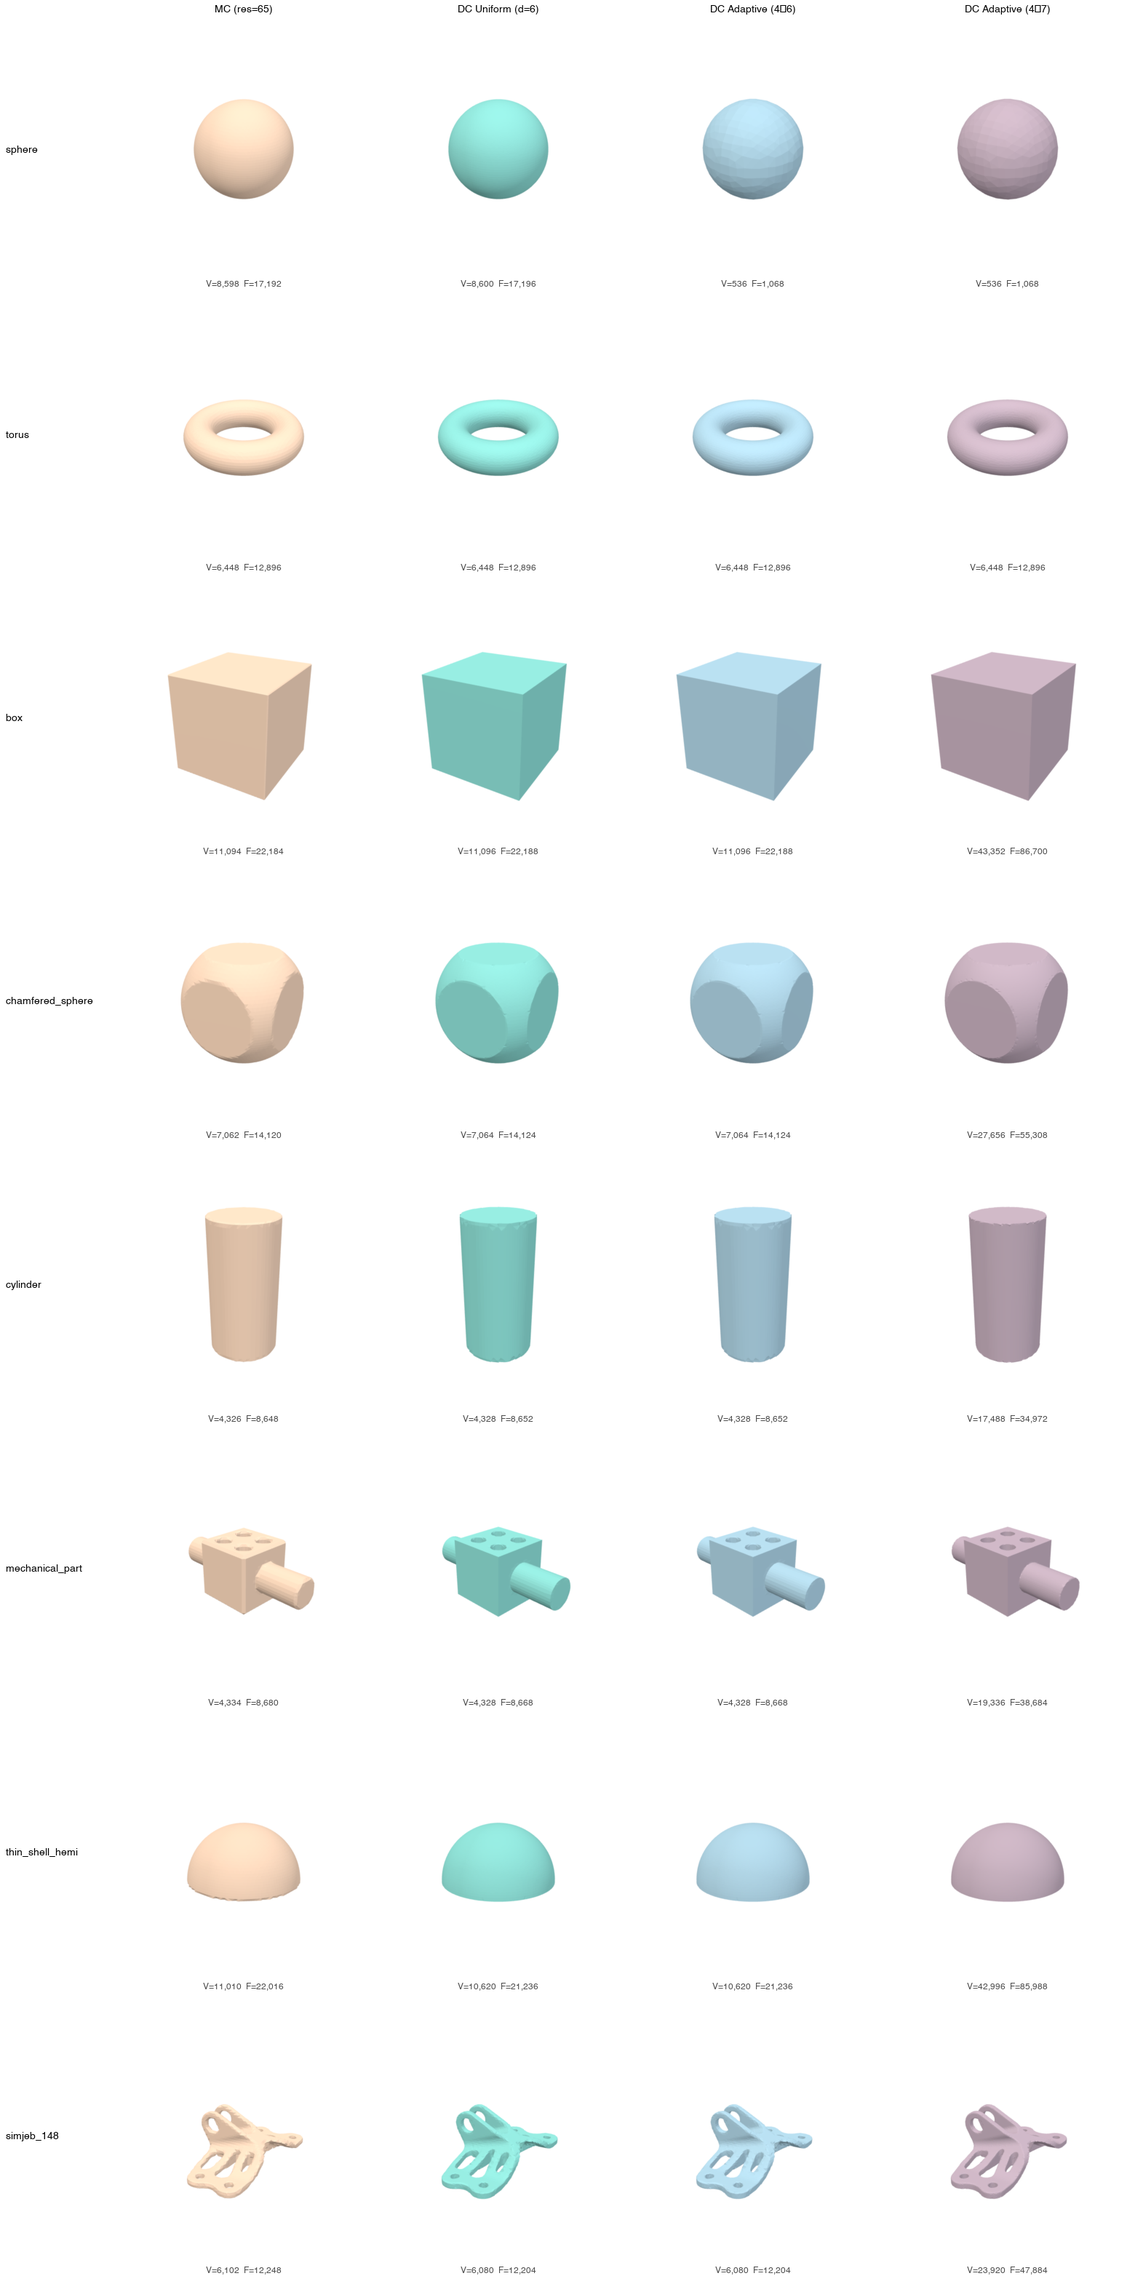
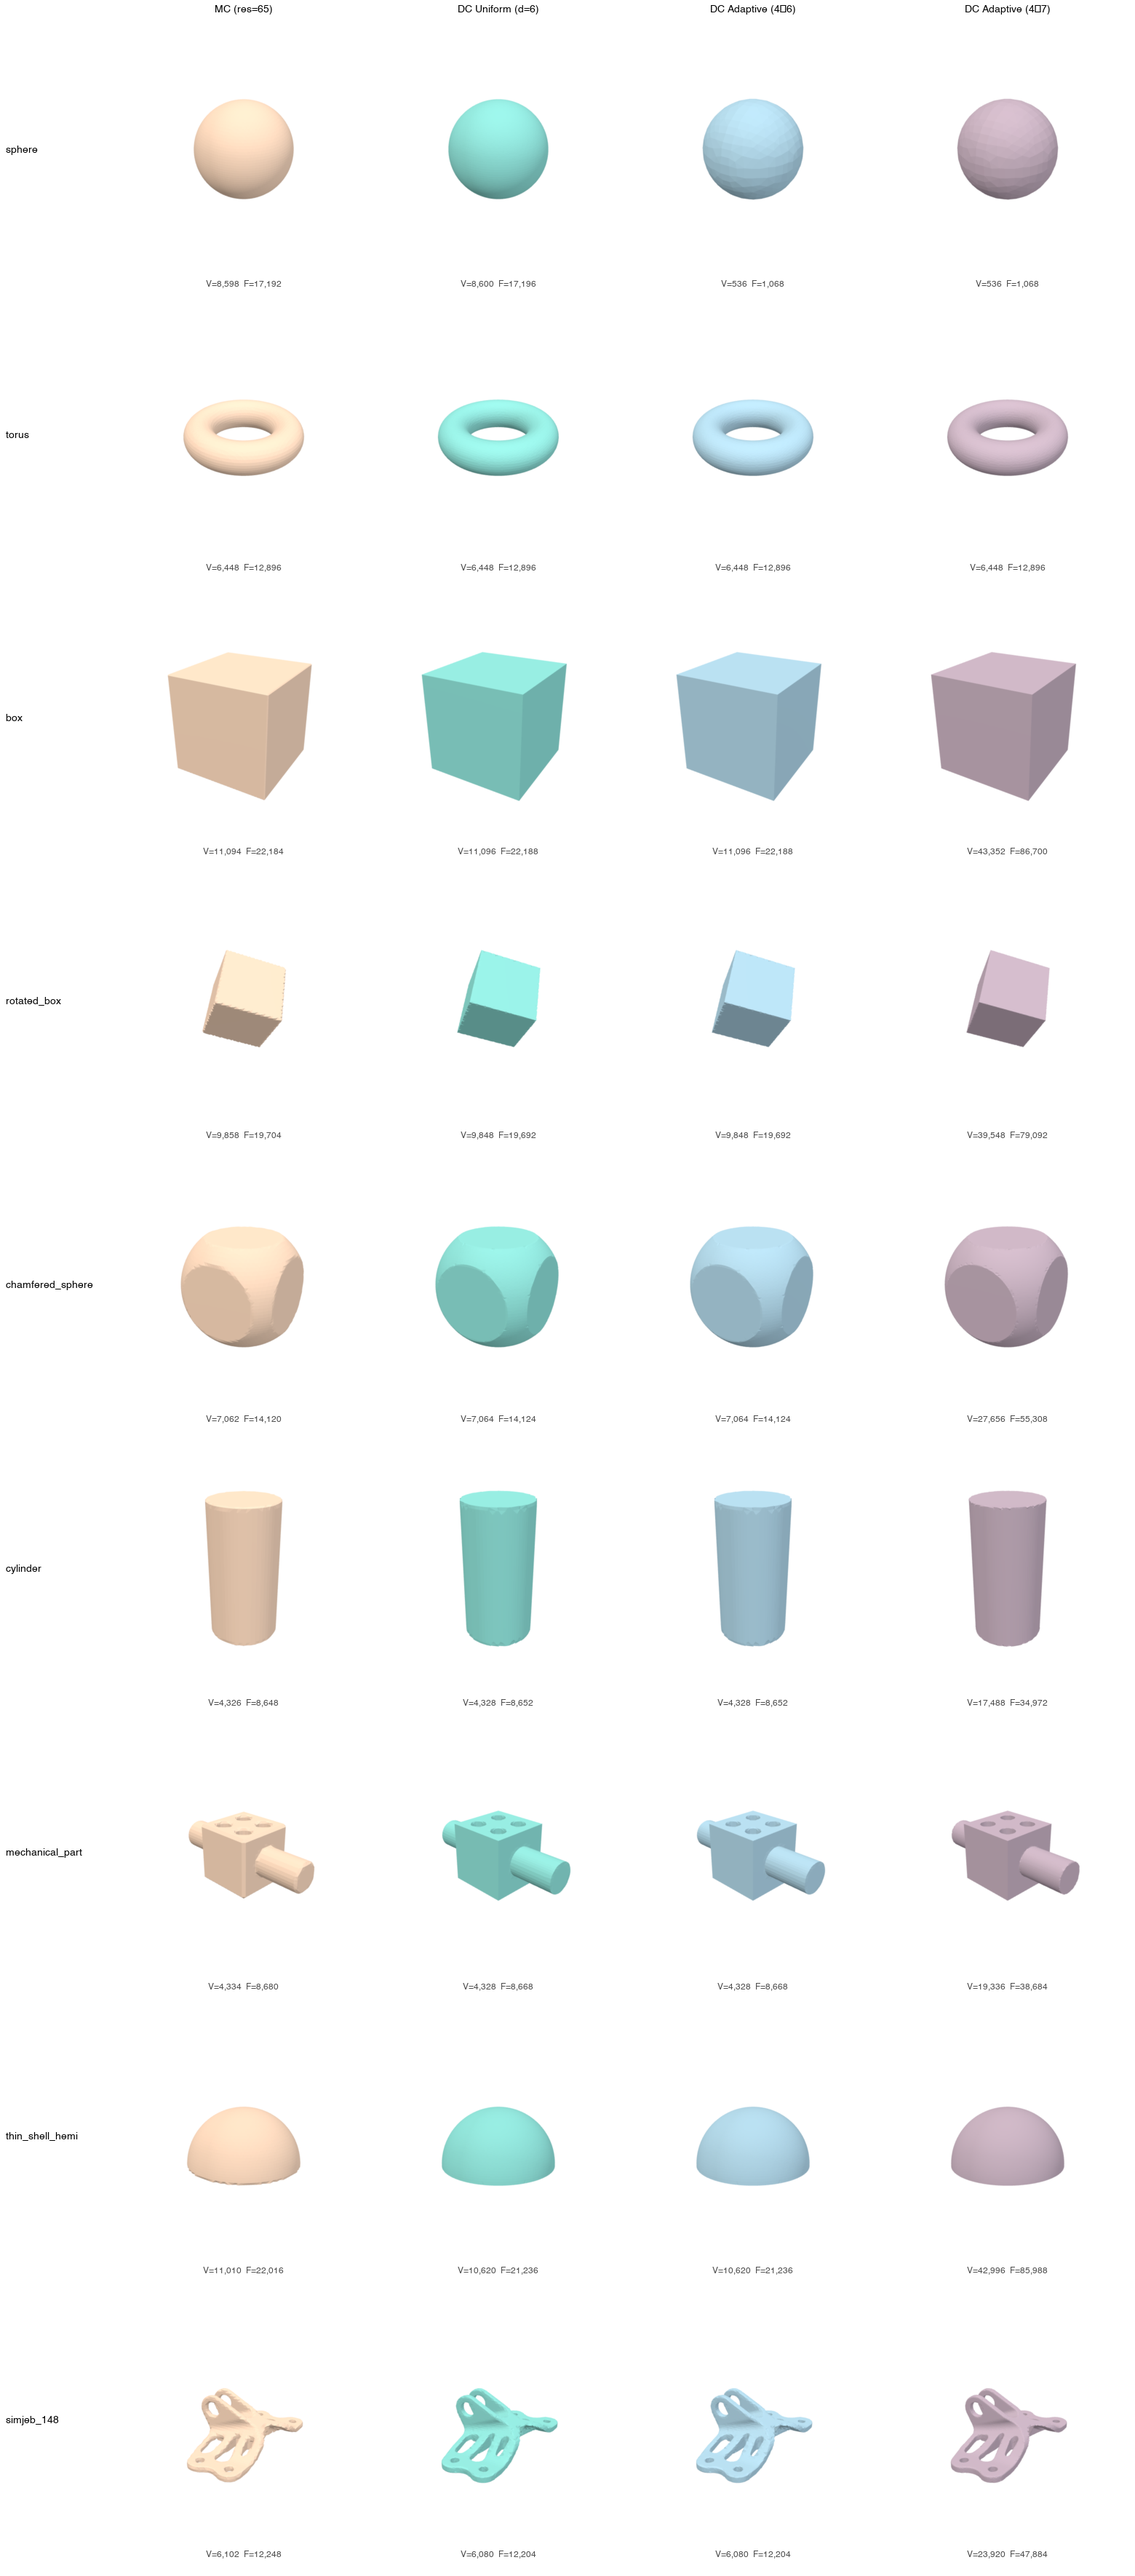
Add rotated box benchmark to test non-axis-aligned sharp edges
DC handles axis-aligned sharp edges well, but diagonal edges need
verification. Added box rotated 45° around (1,1,1) axis as a new
benchmark shape to expose this limitation.

diff --git a/benchmarks/run_benchmark.py b/benchmarks/run_benchmark.py
@@ -93,6 +93,26 @@ def sdf_box(pos, half=None):
     return np.linalg.norm(qm, axis=1) + np.minimum(np.max(q, axis=1), 0.0), None
 
 
+def _rotation_matrix(axis, angle):
+    """Rodrigues' rotation: axis must be unit vector, angle in radians."""
+    ax = np.asarray(axis, dtype=np.float64)
+    ax = ax / np.linalg.norm(ax)
+    c, s = np.cos(angle), np.sin(angle)
+    K = np.array([[0, -ax[2], ax[1]],
+                  [ax[2], 0, -ax[0]],
+                  [-ax[1], ax[0], 0]])
+    return np.eye(3) * c + (1 - c) * np.outer(ax, ax) + s * K
+
+
+def sdf_rotated_box(pos, half=None, axis=None, angle=np.pi / 4):
+    """Box rotated around an arbitrary axis — all edges become non-axis-aligned."""
+    if axis is None:
+        axis = np.array([1.0, 1.0, 1.0])
+    R_inv = _rotation_matrix(axis, -angle)
+    local_pos = pos @ R_inv.T
+    return sdf_box(local_pos, half)
+
+
 def sdf_chamfered_sphere(pos, R=1.0, d=0.8):
     """Sphere with 6 axis-aligned plane cuts — curved faces + sharp circular edges."""
     ds, _ = sdf_sphere(pos, radius=R)
@@ -190,6 +210,12 @@ def build_shapes():
             "bbox": 1.5,
             "category": "sharp",
             "desc": "Unit box",
+        },
+        "rotated_box": {
+            "func": sdf_rotated_box,
+            "bbox": 2.0,
+            "category": "sharp",
+            "desc": "Box rotated 45° around (1,1,1) axis",
         },
         "chamfered_sphere": {
             "func": sdf_chamfered_sphere,

diff --git a/output/benchmark_report.md b/output/benchmark_report.md
@@ -6,49 +6,53 @@
 | Shape | Method | V | F | Time (s) | Manifold | Watertight | Euler | Mean SDF Err | Min∠ Mean | Min∠ P5 |
 |-------|--------|--:|--:|--------:|:--------:|:----------:|-----:|-----------:|--------:|------:|
 | sphere | MC (res=65) | 8,598 | 17,192 | 0.006 | ✓ | ✓ | 2 | 9.63e-05 | 31.6° | 5.7° |
-|  | DC Uniform (d=6) | 8,600 | 17,196 | 0.081 | ✓ | ✓ | 2 | 4.57e-17 | 45.2° | 33.3° |
+|  | DC Uniform (d=6) | 8,600 | 17,196 | 0.077 | ✓ | ✓ | 2 | 4.57e-17 | 45.2° | 33.3° |
 |  | DC Adaptive (4→6) | 536 | 1,068 | 0.002 | ✓ | ✓ | 2 | 8.85e-05 | 43.7° | 30.5° |
 |  | DC Adaptive (4→7) | 536 | 1,068 | 0.002 | ✓ | ✓ | 2 | 8.85e-05 | 43.7° | 30.5° |
 | torus | MC (res=65) | 6,448 | 12,896 | 0.004 | ✓ | ✓ | 0 | 2.34e-04 | 32.0° | 3.7° |
-|  | DC Uniform (d=6) | 6,448 | 12,896 | 0.141 | ✓ | ✓ | 0 | 1.55e-05 | 41.0° | 26.2° |
-|  | DC Adaptive (4→6) | 6,448 | 12,896 | 0.038 | ✓ | ✓ | 0 | 1.55e-05 | 41.0° | 26.2° |
-|  | DC Adaptive (4→7) | 6,448 | 12,896 | 0.035 | ✓ | ✓ | 0 | 1.55e-05 | 41.0° | 26.2° |
+|  | DC Uniform (d=6) | 6,448 | 12,896 | 0.136 | ✓ | ✓ | 0 | 1.55e-05 | 41.0° | 26.2° |
+|  | DC Adaptive (4→6) | 6,448 | 12,896 | 0.035 | ✓ | ✓ | 0 | 1.55e-05 | 41.0° | 26.2° |
+|  | DC Adaptive (4→7) | 6,448 | 12,896 | 0.034 | ✓ | ✓ | 0 | 1.55e-05 | 41.0° | 26.2° |
 
 ## Sharp Features
 
 | Shape | Method | V | F | Time (s) | Manifold | Watertight | Euler | Mean SDF Err | Min∠ Mean | Min∠ P5 |
 |-------|--------|--:|--:|--------:|:--------:|:----------:|-----:|-----------:|--------:|------:|
-| box | MC (res=65) | 11,094 | 22,184 | 0.010 | ✓ | ✓ | 2 | 0.00e+00 | 44.1° | 45.0° |
-|  | DC Uniform (d=6) | 11,096 | 22,188 | 0.175 | ✓ | ✓ | 2 | 7.51e-10 | 44.5° | 39.8° |
-|  | DC Adaptive (4→6) | 11,096 | 22,188 | 0.114 | ✓ | ✓ | 2 | 7.51e-10 | 44.5° | 39.8° |
-|  | DC Adaptive (4→7) | 43,352 | 86,700 | 0.782 | ✓ | ✓ | 2 | 1.92e-10 | 44.8° | 45.0° |
-| chamfered_sphere | MC (res=65) | 7,062 | 14,120 | 0.011 | ✓ | ✓ | 2 | 2.58e-04 | 35.5° | 6.1° |
-|  | DC Uniform (d=6) | 7,064 | 14,124 | 0.197 | ✓ | ✓ | 2 | 3.42e-05 | 43.1° | 22.1° |
-|  | DC Adaptive (4→6) | 7,064 | 14,124 | 0.059 | ✓ | ✓ | 2 | 3.42e-05 | 43.1° | 22.1° |
+| box | MC (res=65) | 11,094 | 22,184 | 0.009 | ✓ | ✓ | 2 | 0.00e+00 | 44.1° | 45.0° |
+|  | DC Uniform (d=6) | 11,096 | 22,188 | 0.173 | ✓ | ✓ | 2 | 7.51e-10 | 44.5° | 39.8° |
+|  | DC Adaptive (4→6) | 11,096 | 22,188 | 0.109 | ✓ | ✓ | 2 | 7.51e-10 | 44.5° | 39.8° |
+|  | DC Adaptive (4→7) | 43,352 | 86,700 | 0.756 | ✓ | ✓ | 2 | 1.92e-10 | 44.8° | 45.0° |
+| rotated_box | MC (res=65) | 9,858 | 19,704 | 0.012 | ✓ | ✓ | 6 | 1.17e-04 | 30.8° | 3.5° |
+|  | DC Uniform (d=6) | 9,848 | 19,692 | 0.185 | ✓ | ✓ | 2 | 2.92e-05 | 36.5° | 21.2° |
+|  | DC Adaptive (4→6) | 9,848 | 19,692 | 0.083 | ✓ | ✓ | 2 | 2.92e-05 | 36.5° | 21.2° |
+|  | DC Adaptive (4→7) | 39,548 | 79,092 | 0.531 | ✓ | ✓ | 2 | 9.61e-06 | 36.8° | 21.8° |
+| chamfered_sphere | MC (res=65) | 7,062 | 14,120 | 0.013 | ✓ | ✓ | 2 | 2.58e-04 | 35.5° | 6.1° |
+|  | DC Uniform (d=6) | 7,064 | 14,124 | 0.196 | ✓ | ✓ | 2 | 3.42e-05 | 43.1° | 22.1° |
+|  | DC Adaptive (4→6) | 7,064 | 14,124 | 0.061 | ✓ | ✓ | 2 | 3.42e-05 | 43.1° | 22.1° |
 |  | DC Adaptive (4→7) | 27,656 | 55,308 | 0.333 | ✓ | ✓ | 2 | 4.58e-05 | 44.2° | 28.7° |
 | cylinder | MC (res=65) | 4,326 | 8,648 | 0.004 | ✓ | ✓ | 2 | 2.12e-04 | 34.9° | 4.1° |
-|  | DC Uniform (d=6) | 4,328 | 8,652 | 0.124 | ✓ | ✓ | 2 | 8.94e-05 | 38.1° | 27.2° |
-|  | DC Adaptive (4→6) | 4,328 | 8,652 | 0.030 | ✓ | ✓ | 2 | 8.94e-05 | 38.1° | 27.2° |
-|  | DC Adaptive (4→7) | 17,488 | 34,972 | 0.199 | ✓ | ✓ | 2 | 1.07e-05 | 38.3° | 28.5° |
-| mechanical_part | MC (res=65) | 4,334 | 8,680 | 0.020 | ✓ | ✓ | -6 | 3.25e-04 | 40.3° | 10.1° |
-|  | DC Uniform (d=6) | 4,328 | 8,668 | 0.234 | ✓ | ✓ | -6 | 5.65e-05 | 41.0° | 31.9° |
-|  | DC Adaptive (4→6) | 4,328 | 8,668 | 0.044 | ✓ | ✓ | -6 | 5.65e-05 | 41.0° | 31.9° |
-|  | DC Adaptive (4→7) | 19,336 | 38,684 | 0.243 | ✓ | ✓ | -6 | 9.51e-06 | 39.7° | 26.9° |
+|  | DC Uniform (d=6) | 4,328 | 8,652 | 0.127 | ✓ | ✓ | 2 | 8.94e-05 | 38.1° | 27.2° |
+|  | DC Adaptive (4→6) | 4,328 | 8,652 | 0.032 | ✓ | ✓ | 2 | 8.94e-05 | 38.1° | 27.2° |
+|  | DC Adaptive (4→7) | 17,488 | 34,972 | 0.182 | ✓ | ✓ | 2 | 1.07e-05 | 38.3° | 28.5° |
+| mechanical_part | MC (res=65) | 4,334 | 8,680 | 0.019 | ✓ | ✓ | -6 | 3.25e-04 | 40.3° | 10.1° |
+|  | DC Uniform (d=6) | 4,328 | 8,668 | 0.247 | ✓ | ✓ | -6 | 5.65e-05 | 41.0° | 31.9° |
+|  | DC Adaptive (4→6) | 4,328 | 8,668 | 0.045 | ✓ | ✓ | -6 | 5.65e-05 | 41.0° | 31.9° |
+|  | DC Adaptive (4→7) | 19,336 | 38,684 | 0.246 | ✓ | ✓ | -6 | 9.51e-06 | 39.7° | 26.9° |
 
 ## Thin Features
 
 | Shape | Method | V | F | Time (s) | Manifold | Watertight | Euler | Mean SDF Err | Min∠ Mean | Min∠ P5 |
 |-------|--------|--:|--:|--------:|:--------:|:----------:|-----:|-----------:|--------:|------:|
 | thin_shell_hemi | MC (res=65) | 11,010 | 22,016 | 0.005 | ✓ | ✓ | 2 | 6.86e-05 | 31.4° | 1.5° |
-|  | DC Uniform (d=6) | 10,620 | 21,236 | 0.139 | ✓ | ✓ | 2 | 8.29e-09 | 44.2° | 30.5° |
-|  | DC Adaptive (4→6) | 10,620 | 21,236 | 0.051 | ✓ | ✓ | 2 | 8.29e-09 | 44.2° | 30.5° |
-|  | DC Adaptive (4→7) | 42,996 | 85,988 | 0.352 | ✓ | ✓ | 2 | 5.71e-13 | 43.7° | 30.8° |
+|  | DC Uniform (d=6) | 10,620 | 21,236 | 0.143 | ✓ | ✓ | 2 | 8.29e-09 | 44.2° | 30.5° |
+|  | DC Adaptive (4→6) | 10,620 | 21,236 | 0.054 | ✓ | ✓ | 2 | 8.29e-09 | 44.2° | 30.5° |
+|  | DC Adaptive (4→7) | 42,996 | 85,988 | 0.338 | ✓ | ✓ | 2 | 5.71e-13 | 43.7° | 30.8° |
 
 ## Complex Geometry (Mesh-based SDF)
 
 | Shape | Method | V | F | Time (s) | Manifold | Watertight | Euler | Mean SDF Err | Min∠ Mean | Min∠ P5 |
 |-------|--------|--:|--:|--------:|:--------:|:----------:|-----:|-----------:|--------:|------:|
-| simjeb_148 | MC (res=65) | 6,102 | 12,248 | 0.311 | ✓ | ✓ | -22 | 1.35e-03 | 34.6° | 6.3° |
-|  | DC Uniform (d=6) | 6,080 | 12,204 | 2.311 | ✓ | ✓ | -22 | 3.39e-04 | 33.1° | 8.3° |
-|  | DC Adaptive (4→6) | 6,080 | 12,204 | 2.496 | ✓ | ✓ | -22 | 3.39e-04 | 33.1° | 8.3° |
-|  | DC Adaptive (4→7) | 23,920 | 47,884 | 3.986 | ✓ | ✓ | -22 | 9.71e-05 | 36.6° | 12.8° |
+| simjeb_148 | MC (res=65) | 6,102 | 12,248 | 0.317 | ✓ | ✓ | -22 | 1.35e-03 | 34.6° | 6.3° |
+|  | DC Uniform (d=6) | 6,080 | 12,204 | 2.286 | ✓ | ✓ | -22 | 3.39e-04 | 33.1° | 8.3° |
+|  | DC Adaptive (4→6) | 6,080 | 12,204 | 2.442 | ✓ | ✓ | -22 | 3.39e-04 | 33.1° | 8.3° |
+|  | DC Adaptive (4→7) | 23,920 | 47,884 | 3.974 | ✓ | ✓ | -22 | 9.71e-05 | 36.6° | 12.8° |

diff --git a/README.md b/README.md
@@ -76,18 +76,18 @@ def f(positions: np.ndarray) -> tuple[np.ndarray, np.ndarray | None]:
 
 ## Dual Contouring vs Marching Cubes
 
-Comprehensive comparison across 8 benchmark shapes using isomesh (Dual Contouring) and PyMCubes (Marching Cubes) at equivalent resolution (depth 6 = 64 cells/axis).
+Comprehensive comparison across 9 benchmark shapes using isomesh (Dual Contouring) and PyMCubes (Marching Cubes) at equivalent resolution (depth 6 = 64 cells/axis).
 
 ### Summary
 
 | Metric | MC (res=65) | DC Uniform (d=6) | DC Adaptive (4->6) | DC Adaptive (4->7) |
 |--------|:-----------:|:-----------------:|:-------------------:|:-------------------:|
-| Manifold | 8/8 | 8/8 | 8/8 | 8/8 |
-| Watertight | 8/8 | 8/8 | 8/8 | 8/8 |
-| Total vertices | 58,974 | 58,564 | 51,228 | 181,732 |
-| Total time | 0.39s | 9.10s | 6.01s | 21.26s |
-| Avg SDF error | 3.18e-04 | 6.69e-05 | 2.63e-03 | 3.34e-05 |
-| Avg min angle | 35.5 | 41.3 | 41.0 | 41.5 |
+| Manifold | 9/9 | 9/9 | 9/9 | 9/9 |
+| Watertight | 9/9 | 9/9 | 9/9 | 9/9 |
+| Total vertices | 68,832 | 68,412 | 60,348 | 221,280 |
+| Total time | 0.39s | 3.57s | 2.86s | 6.40s |
+| Avg SDF error | 2.95e-04 | 6.27e-05 | 7.25e-05 | 3.07e-05 |
+| Avg min angle | 35.0 | 40.7 | 40.6 | 41.0 |
 
 ### Surface Accuracy
 
@@ -118,6 +118,7 @@ DC consistently produces better-shaped triangles (higher minimum angle = less de
 DC (Dual Contouring) preserves sharp edges and corners via QEF vertex placement. MC (Marching Cubes) rounds them by linear interpolation.
 
 ![Box comparison](docs/images/comparison_box.png)
+![Rotated box comparison](docs/images/comparison_rotated_box.png)
 ![Chamfered sphere comparison](docs/images/comparison_chamfered_sphere.png)
 ![Mechanical part comparison](docs/images/comparison_mechanical_part.png)
 
@@ -186,12 +187,12 @@ pytest tests/ -v
 
 ## Benchmarks
 
-The benchmark suite compares isomesh against PyMCubes across 8 shapes in 4 categories:
+The benchmark suite compares isomesh against PyMCubes across 9 shapes in 4 categories:
 
 | Category | Shapes | What it tests |
 |----------|--------|---------------|
 | Basic | Sphere, Torus | Smooth surfaces, analytic ground truth |
-| Sharp features | Box, Chamfered sphere, Cylinder, Mechanical part | Sharp edges, corners, CSG operations |
+| Sharp features | Box, Rotated box, Chamfered sphere, Cylinder, Mechanical part | Sharp edges, corners, non-axis-aligned edges, CSG operations |
 | Thin features | Hemisphere shell (wall=0.08) | Thin walls, open boundaries |
 | Complex geometry | SimJEB 148 (mesh-based SDF) | Real CAD parts, complex topology |
 
